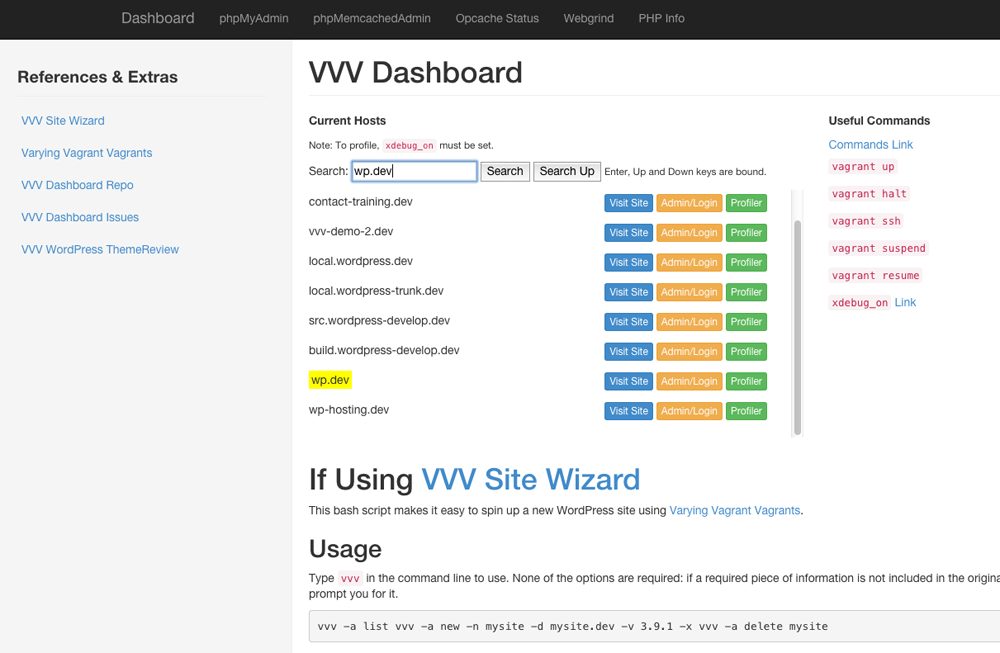
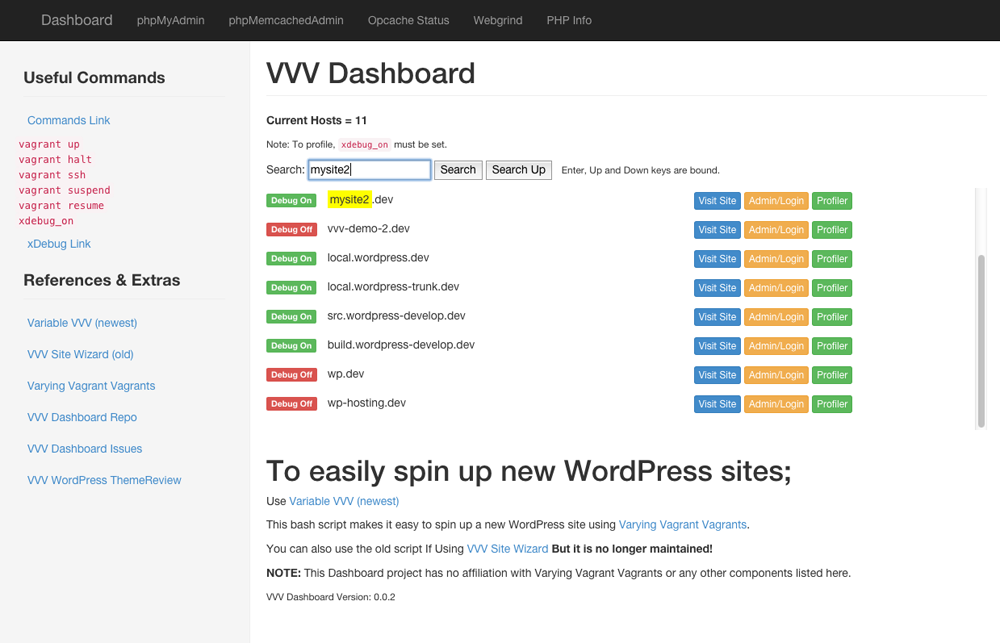
Refactored get_hosts function to also check if WP_DEBUG is true in each host. Then added it to the host list. Also added host count.

diff --git a/style.css b/style.css
@@ -3968,6 +3968,89 @@ input[type="button"].btn-block {
   color: #fff;
 }
 
+/* line 5, bower_components/bootstrap-sass/vendor/assets/stylesheets/bootstrap/_labels.scss */
+.label {
+  display: inline;
+  padding: .2em .6em .3em;
+  font-size: 75%;
+  font-weight: bold;
+  line-height: 1;
+  color: #fff;
+  text-align: center;
+  white-space: nowrap;
+  vertical-align: baseline;
+  border-radius: .25em;
+}
+/* line 19, bower_components/bootstrap-sass/vendor/assets/stylesheets/bootstrap/_labels.scss */
+.label[href]:hover, .label[href]:focus {
+  color: #fff;
+  text-decoration: none;
+  cursor: pointer;
+}
+/* line 28, bower_components/bootstrap-sass/vendor/assets/stylesheets/bootstrap/_labels.scss */
+.label:empty {
+  display: none;
+}
+/* line 33, bower_components/bootstrap-sass/vendor/assets/stylesheets/bootstrap/_labels.scss */
+.btn .label {
+  position: relative;
+  top: -1px;
+}
+
+/* line 42, bower_components/bootstrap-sass/vendor/assets/stylesheets/bootstrap/_labels.scss */
+.label-default {
+  background-color: #999999;
+}
+/* line 525, bower_components/bootstrap-sass/vendor/assets/stylesheets/bootstrap/_mixins.scss */
+.label-default[href]:hover, .label-default[href]:focus {
+  background-color: gray;
+}
+
+/* line 46, bower_components/bootstrap-sass/vendor/assets/stylesheets/bootstrap/_labels.scss */
+.label-primary {
+  background-color: #428bca;
+}
+/* line 525, bower_components/bootstrap-sass/vendor/assets/stylesheets/bootstrap/_mixins.scss */
+.label-primary[href]:hover, .label-primary[href]:focus {
+  background-color: #3071a9;
+}
+
+/* line 50, bower_components/bootstrap-sass/vendor/assets/stylesheets/bootstrap/_labels.scss */
+.label-success {
+  background-color: #5cb85c;
+}
+/* line 525, bower_components/bootstrap-sass/vendor/assets/stylesheets/bootstrap/_mixins.scss */
+.label-success[href]:hover, .label-success[href]:focus {
+  background-color: #449d44;
+}
+
+/* line 54, bower_components/bootstrap-sass/vendor/assets/stylesheets/bootstrap/_labels.scss */
+.label-info {
+  background-color: #5bc0de;
+}
+/* line 525, bower_components/bootstrap-sass/vendor/assets/stylesheets/bootstrap/_mixins.scss */
+.label-info[href]:hover, .label-info[href]:focus {
+  background-color: #31b0d5;
+}
+
+/* line 58, bower_components/bootstrap-sass/vendor/assets/stylesheets/bootstrap/_labels.scss */
+.label-warning {
+  background-color: #f0ad4e;
+}
+/* line 525, bower_components/bootstrap-sass/vendor/assets/stylesheets/bootstrap/_mixins.scss */
+.label-warning[href]:hover, .label-warning[href]:focus {
+  background-color: #ec971f;
+}
+
+/* line 62, bower_components/bootstrap-sass/vendor/assets/stylesheets/bootstrap/_labels.scss */
+.label-danger {
+  background-color: #d9534f;
+}
+/* line 525, bower_components/bootstrap-sass/vendor/assets/stylesheets/bootstrap/_mixins.scss */
+.label-danger[href]:hover, .label-danger[href]:focus {
+  background-color: #c9302c;
+}
+
 /* line 20, bower_components/bootstrap-sass/vendor/assets/stylesheets/bootstrap/_mixins.scss */
 .clearfix:before, .clearfix:after {
   content: " ";
@@ -4777,4 +4860,9 @@ body {
 .highlight {
   background: yellow;
   padding: 3px;
+}
+
+/* line 82, compass/sass/_layout.scss */
+.center {
+  text-align: center;
 }

diff --git a/compass/sass/_bootstrap.scss b/compass/sass/_bootstrap.scss
@@ -27,7 +27,7 @@
 //@import "../../bower_components/bootstrap-sass/vendor/assets/stylesheets/bootstrap/breadcrumbs";
 //@import "../../bower_components/bootstrap-sass/vendor/assets/stylesheets/bootstrap/pagination";
 //@import "../../bower_components/bootstrap-sass/vendor/assets/stylesheets/bootstrap/pager";
-//@import "../../bower_components/bootstrap-sass/vendor/assets/stylesheets/bootstrap/labels";
+@import "../../bower_components/bootstrap-sass/vendor/assets/stylesheets/bootstrap/labels";
 //@import "../../bower_components/bootstrap-sass/vendor/assets/stylesheets/bootstrap/badges";
 //@import "../../bower_components/bootstrap-sass/vendor/assets/stylesheets/bootstrap/jumbotron";
 //@import "../../bower_components/bootstrap-sass/vendor/assets/stylesheets/bootstrap/thumbnails";

diff --git a/compass/sass/_layout.scss b/compass/sass/_layout.scss
@@ -78,3 +78,7 @@ body {
 	background: yellow;
 	padding:    3px;
 }
+
+.center {
+	text-align: center;
+}

diff --git a/index.php b/index.php
@@ -17,6 +17,8 @@ $path = '../../';
 function getHosts( $path ) {
 
 	$array = array();
+	$debug = array();
+	$hosts = array();
 	$depth = 2;
 	$site  = new RecursiveDirectoryIterator( $path, RecursiveDirectoryIterator::SKIP_DOTS );
 	$files = new RecursiveIteratorIterator( $site );
@@ -31,17 +33,73 @@ function getHosts( $path ) {
 		if ( strstr( $name, 'vvv-hosts' ) && ! is_dir( 'vvv-hosts' ) ) {
 
 			$lines = file( $name );
+			$name  = str_replace( array( '../../', '/vvv-hosts' ), array(), $name );
 
 			// read through the lines in our host files
 			foreach ( $lines as $num => $line ) {
 
 				// skip comment lines
-				if ( ! strstr( $line, '#' ) && trim( $line ) != 'vvv.dev' ) {
-					$array[] = trim( $line );
+				if ( ! strstr( $line, '#' ) && 'vvv.dev' != trim( $line ) ) {
+					if ( 'vvv-hosts' == $name ) {
+						switch ( trim( $line ) ) {
+							case "local.wordpress.dev" :
+								$hosts['wordpress-default'] = array( 'host' => trim( $line ) );
+								break;
+							case "local.wordpress-trunk.dev" :
+								$hosts['wordpress-trunk'] = array( 'host' => trim( $line ) );
+								break;
+							case "src.wordpress-develop.dev" :
+								$hosts['wordpress-develop/src'] = array( 'host' => trim( $line ) );
+								break;
+							case "build.wordpress-develop.dev" :
+								$hosts['wordpress-develop/build'] = array( 'host' => trim( $line ) );
+								break;
+						}
+					}
+					if ( 'vvv-hosts' != $name ) {
+						$hosts[ $name ] = array( 'host' => trim( $line ) );
+					}
+					//$count          = ++ $count;
 				}
 			} // end foreach
 		}
+
+		if ( strstr( $name, 'wp-config.php' ) ) {
+
+			$config_lines = file( $name );
+
+			// read through the lines in our host files
+			foreach ( $config_lines as $num => $line ) {
+				$name = str_replace( array( '../../', '/wp-config.php', '/htdocs' ), array(), $name );
+
+				// skip comment lines
+				if ( strstr( $line, "define('WP_DEBUG', true);" )
+				     || strstr( $line, 'define("WP_DEBUG", true);' )
+				     || strstr( $line, 'define( "WP_DEBUG", true );' )
+				     || strstr( $line, "define( 'WP_DEBUG', true );" )
+				) {
+					$debug[ $name ] = array(
+						'path'  => $name,
+						'debug' => 'true',
+					);
+				}
+
+			} // end foreach
+		}
+
 	} // end foreach
+
+	foreach ( $hosts as $key => $val ) {
+
+		if ( array_key_exists( $key, $debug ) ) {
+			$array[ $key ] = $val + array( 'debug' => 'true' );
+		} else {
+			$array[ $key ] = $val + array( 'debug' => 'false' );
+		}
+	} // end foreach
+
+	$array['site_count'] = count( $hosts );
+
 	return $array;
 }
 
@@ -94,11 +152,11 @@ $hosts = getHosts( $path );
 		</div>
 
 		<ul class="nav navbar-nav">
-			<li><a href="database-admin/" target="_blank">phpMyAdmin</a></li>
-			<li><a href="memcached-admin/" target="_blank">phpMemcachedAdmin</a></li>
-			<li><a href="opcache-status/opcache.php" target="_blank">Opcache Status</a></li>
-			<li><a href="webgrind/" target="_blank">Webgrind</a></li>
-			<li><a href="phpinfo/" target="_blank">PHP Info</a></li>
+			<li><a href="/database-admin/" target="_blank">phpMyAdmin</a></li>
+			<li><a href="/memcached-admin/" target="_blank">phpMemcachedAdmin</a></li>
+			<li><a href="/opcache-status/opcache.php" target="_blank">Opcache Status</a></li>
+			<li><a href="/webgrind/" target="_blank">Webgrind</a></li>
+			<li><a href="/phpinfo/" target="_blank">PHP Info</a></li>
 		</ul>
 
 	</div>
@@ -108,9 +166,25 @@ $hosts = getHosts( $path );
 
 	<div class="col-sm-4 col-md-3 sidebar">
 
+
+		<p class="sidebar-title">Useful Commands</p>
+		<ul class="nav">
+			<li><a href="https://github.com/varying-vagrant-vagrants/vvv/#now-what" target="_blank">Commands Link</a></li>
+			<li><code>vagrant up</code></li>
+			<li><code>vagrant halt</code></li>
+			<li><code>vagrant ssh</code></li>
+			<li><code>vagrant suspend</code></li>
+			<li><code>vagrant resume</code></li>
+			<li><code>xdebug_on</code>
+				<a href="https://github.com/Varying-Vagrant-Vagrants/VVV/wiki/Code-Debugging#turning-on-xdebug" target="_blank">xDebug Link</a>
+			</li>
+		</ul>
+
+
 		<p class="sidebar-title">References &amp; Extras</p>
 		<ul class="nav">
-			<li><a target="_blank" href="https://github.com/aliso/vvv-site-wizard">VVV Site Wizard</a></li>
+			<li><a target="_blank" href="https://github.com/bradp/vv">Variable VVV (newest)</a></li>
+			<li><a target="_blank" href="https://github.com/aliso/vvv-site-wizard">VVV Site Wizard (old)</a></li>
 			<li><a href="https://github.com/varying-vagrant-vagrants/vvv/" target="_blank">Varying Vagrant Vagrants</a>
 			</li>
 			<li><a href="https://github.com/topdown/VVV-Dashboard" target="_blank">VVV Dashboard Repo</a></li>
@@ -124,123 +198,60 @@ $hosts = getHosts( $path );
 		<h1 class="page-header">VVV Dashboard</h1>
 
 		<div class="row">
-			<div class="col-sm-8 col-md-7 hosts">
+			<div class="col-sm-12 hosts">
 
-				<p><strong>Current Hosts</strong></p>
+				<p>
+					<strong>Current Hosts = <?php echo isset( $hosts['site_count'] ) ? $hosts['site_count'] : ''; ?></strong>
+				</p>
 				<small>Note: To profile, <code>xdebug_on</code> must be set.</small>
 
 				<p class="search-box">Search: <input type="text" id="text-search" />
 					<input id="search" type="button" value="Search" />
 					<input id="back" type="button" value="Search Up" />
-					<small>Enter, Up and Down keys are bound.</small>
+					&nbsp; <small>Enter, Up and Down keys are bound.</small>
 				</p>
 
 				<ul class="list-unstyled sites">
 					<?php
-					foreach ( $hosts as $host ) {
-						echo '<li class="row">
-							<span class=" col-sm-7">' . $host . '</span>
+					foreach ( $hosts as $key => $array ) {
+						if ( 'site_count' != $key ) {
+							echo '<li class="row">';
+							if ( 'true' == $array['debug'] ) {
+								echo '<div class="col-sm-1 "><span class="label label-success">Debug On</span></div>';
+							} else {
+								echo '<div class="col-sm-1 "><span class="label label-danger">Debug Off</span></div>';
+							}
+							echo '<span class=" col-sm-6">' . $array['host'] . '</span>
 
 							<div class=" col-sm-5">
-							<a class="btn btn-primary btn-xs" href="http://' . $host . '/" target="_blank">Visit Site</a>
-							<a class="btn btn-warning btn-xs" href="http://' . $host . '/wp-admin" target="_blank">Admin/Login</a>
-							<a class="btn btn-success btn-xs" href="http://' . $host . '/?XDEBUG_PROFILE" target="_blank">Profiler</a>
+							<a class="btn btn-primary btn-xs" href="http://' . $array['host'] . '/" target="_blank">Visit Site</a>
+							<a class="btn btn-warning btn-xs" href="http://' . $array['host'] . '/wp-admin" target="_blank">Admin/Login</a>
+							<a class="btn btn-success btn-xs" href="http://' . $array['host'] . '/?XDEBUG_PROFILE" target="_blank">Profiler</a>
 							</div>
 							</li>' . "\n";
+						}
 					} // end foreach
-					unset( $host ); ?>
+					unset( $array ); ?>
 					<li class="bottom"></li>
 				</ul>
 
 			</div>
-			<div class="col-sm-8 col-md-4">
-				<p><strong>Useful Commands</strong></p>
-				<a href="https://github.com/varying-vagrant-vagrants/vvv/#now-what" target="_blank">Commands Link</a>
-				<br />
-				<ul class="list-unstyled">
-					<li><code>vagrant up</code></li>
-					<li><code>vagrant halt</code></li>
-					<li><code>vagrant ssh</code></li>
-					<li><code>vagrant suspend</code></li>
-					<li><code>vagrant resume</code></li>
-					<li><code>xdebug_on</code>
-						<a href="https://github.com/Varying-Vagrant-Vagrants/VVV/wiki/Code-Debugging#turning-on-xdebug" target="_blank">Link</a>
-					</li>
-				</ul>
-			</div>
+
 		</div>
 
-		<h1>If Using <a href="https://github.com/aliso/vvv-site-wizard" target="_blank">VVV Site Wizard</a></h1>
+		<h1>To easily spin up new WordPress sites;</h1>
 
+		<p>Use <a target="_blank" href="https://github.com/bradp/vv">Variable VVV (newest)</a></p>
 		<p>This bash script makes it easy to spin up a new WordPress site using
 			<a href="https://github.com/Varying-Vagrant-Vagrants/VVV">Varying Vagrant Vagrants</a>.</p>
 
-
-		<h2>Usage</h2>
-
-		<p>Type
-			<code>vvv</code> in the command line to use. None of the options are required: if a required piece of information is not included in the original command, the wizard will prompt you for it.
-		</p>
-
-		<pre><code>vvv -a list vvv -a new -n mysite -d mysite.dev -v 3.9.1 -x vvv -a delete mysite </code></pre>
-
-		<h3>Options</h3>
-
-		<table class="table table-striped">
-			<thead>
-			<tr>
-				<th>Option</th>
-				<th>Name</th>
-				<th>Description</th>
-			</tr>
-			</thead>
-			<tbody>
-			<tr>
-				<td><code>-a</code></td>
-				<td>action</td>
-				<td>
-					<code>new</code>/<code>create</code>/<code>make</code> runs the site creation wizard,
-					<br /><code>rm</code>/<code>delete</code>/<code>teardown</code> runs the site teardown wizard,
-					<br /><code>list</code> lists all current VVV sites
-				</td>
-			</tr>
-			<tr>
-				<td><code>-d</code></td>
-				<td>domain</td>
-				<td>Desired domain (e.g. mysite.dev)</td>
-			</tr>
-			<tr>
-				<td><code>-f</code></td>
-				<td>files only</td>
-				<td>Do not provision Vagrant, just create the site directory and files</td>
-			</tr>
-			<tr>
-				<td><code>-n</code></td>
-				<td>site name</td>
-				<td>Desired name for the site directory (e.g. mysite)</td>
-			</tr>
-			<tr>
-				<td><code>-p</code></td>
-				<td>path</td>
-				<td>Path to VVV root (e.g. ~/vagrant-local)</td>
-			</tr>
-			<tr>
-				<td><code>-v</code></td>
-				<td>version</td>
-				<td>Version of WordPress to install</td>
-			</tr>
-			<tr>
-				<td><code>-x</code></td>
-				<td>debug</td>
-				<td>Turn on WP_DEBUG and WP_DEBUG_LOG</td>
-			</tr>
-			</tbody>
-		</table>
+		<p>You can also use the old script If Using <a href="https://github.com/aliso/vvv-site-wizard" target="_blank">VVV Site Wizard</a> <strong>But it is no longer maintained!</strong></p>
 
 		<p>
 			<strong>NOTE: </strong>This Dashboard project has no affiliation with Varying Vagrant Vagrants or any other components listed here.
 		</p>
 
+		<p><small>VVV Dashboard Version: 0.0.2</small></p>
 	</div>
 </div>
 </body>
